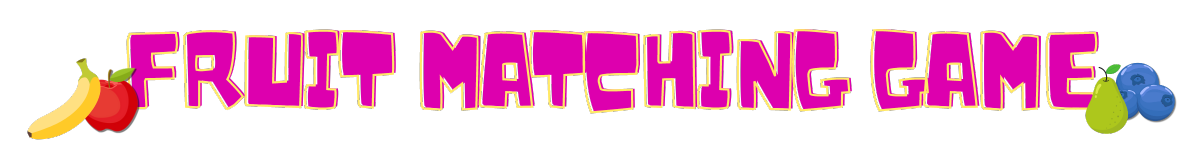
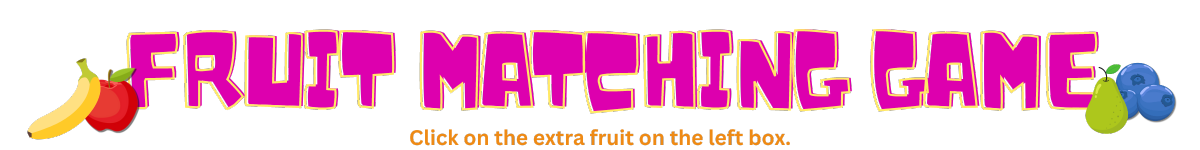
fix small error and change the header

Changed region(s): [[0.3392, 0.8533, 0.6783, 0.9867]]

diff --git a/script.js b/script.js
@@ -1,5 +1,5 @@
 // image array
-fruitImg = [1, 2, 3, 4, 5, 6]
+fruitImg = [1, 2, 3, 4, 5, 6];
 
 // initial value of variables
 let numOfFruits = 0;
@@ -10,22 +10,25 @@ let score = document.querySelector('#score');
 let numOfScore = Number(score.innerText);
 let highScore = document.querySelector('#highScore');
 let numOfHighScore = Number(highScore.innerText);
-//DOM - Box
+//DOM - div
 const theLeftSide = document.querySelector('#leftSide');
 const theRightSide = document.querySelector('#rightSide');
+const notifDiv = document.querySelector('#notifDiv');
+const newNotif = document.createElement('div');
+const catDiv = document.querySelector("#cat")
 
 // addEventListener
 document.querySelector('#startBtn').addEventListener('click', openPopUpLevel);
+document.querySelector('#resetBtn').addEventListener('click', resetGame);
 
 // Open Pop Up Level Function
-const PopUpLevel = document.querySelector('#popUpLevel')
 function openPopUpLevel(event) {
-    PopUpLevel.classList.add('openPopupLevel');
+    document.querySelector('#popUpLevel').classList.add('openPopupLevel');
     event.stopPropagation();
 };
 // close pop up Level Function
 function closePopUpLevel() {
-    PopUpLevel.classList.remove('openPopupLevel');
+    document.querySelector('#popUpLevel').classList.remove('openPopupLevel');
 };
 
 // addEvent Listener - Select Level
@@ -43,7 +46,6 @@ hardLevel.addEventListener('click', closePopUpLevel);
 
 // playGame Function
 function playGame(level) {
-
     console.log(`level: ${level} start: ${numOfFruits}`)
     if (level == 'Easy') {
         numOfFruits = 3;
@@ -54,9 +56,9 @@ function playGame(level) {
     } else {
         numOfFruits = 5;
         generateFruit('Hard')
-    }
+    };
     document.querySelector('#showLevel').innerText = `Level: ${level}`;
-}
+};
 
 // create random fruits on the left side
 function generateFruit(level) {
@@ -80,7 +82,6 @@ function generateFruit(level) {
     theRightSide.appendChild(leftSideImages);
 
     console.log(`level: ${level} status: ${numOfFruits}`);
-    // getFunction(level);
     if (level == 'Easy') {
         theLeftSide.lastChild.addEventListener('click', (event) => nextScore(event, 'Easy'));
         console.log("press easy last child button")
@@ -97,27 +98,6 @@ function generateFruit(level) {
     }
 
 };
-
-// function getFunction(level) {
-//     switch (level) {
-//         case 'Easy':
-//             theLeftSide.lastChild.addEventListener('click', (event) => nextScore(event, 'Easy'));
-//             theLeftSide.addEventListener('click', (event) => gameOver(event, 'Easy'));
-//             console.log("press button")
-//             break;
-//         case 'Medium':
-//             theLeftSide.lastChild.addEventListener('click', (event) => nextScore(event, 'Medium'));
-//             // theLeftSide.addEventListener('click', (event) => gameOver(event, 'Medium'));
-//             break;
-//         case 'Hard':
-//             theLeftSide.lastChild.addEventListener('click', (event) => nextScore(event, 'Hard'));
-//             // theLeftSide.addEventListener('click', (event) => gameOver(event, 'Hard'));
-//             break;
-//         default:
-//             console.log("Invalid function");
-//     }
-// }
-
 
 // adding score if the guess is right
 function nextScore(event, level) {
@@ -140,15 +120,9 @@ function nextScore(event, level) {
         theRightSide.removeChild(theRightSide.firstChild);
     };
     generateFruit(level);
-
 }
 
 // add update HighScore
-const notifDiv = document.querySelector('#notifDiv');
-const newNotif = document.createElement('div');
-const catDiv = document.querySelector("#cat")
-
-
 let currentHighScore = 0;
 function theHighScore() {
     let currentScore = numOfScore;
@@ -166,7 +140,6 @@ function theHighScore() {
 };
 
 //reset Button 
-document.querySelector('#resetBtn').addEventListener('click', resetGame);
 function resetGame(event) {
     event.stopPropagation();
     numOfHighScore = 0;
@@ -201,7 +174,7 @@ function gameOver(event,level) {
         document.querySelector('#playAgain').addEventListener('click', playGame('Medium'));
     } else {
         document.querySelector('#playAgain').addEventListener('click', playGame('Hard'));
-    }
+    };
 }
 
 
@@ -210,7 +183,6 @@ function openPopUpGameOver() {
     document.querySelector('#popUpGameOver').classList.add('open-popup');
     console.log("open works")
 };
-
 function closePopUp() {
     document.querySelector('#popUpGameOver').classList.remove('open-popup');
     while (notifDiv.firstChild) {
@@ -218,6 +190,7 @@ function closePopUp() {
     };
 };
 
+//Quit Game Function
 function quitGame(event) {
     document.querySelector('#popUpGameOver').classList.remove('open-popup');
     while (notifDiv.firstChild) {
@@ -239,13 +212,13 @@ function removeListener() {
     while (theLeftSide.firstChild) {
         theLeftSide.removeChild(theLeftSide.firstChild);
         console.log("remove left works")
-    }
+    };
     while (theRightSide.firstChild) {
         theRightSide.removeChild(theRightSide.firstChild);
         console.log("remove right works")
-    }
+    };
     score.innerText = 0;
     numOfScore = 0;
     numOfFruits = 0;
-    console.log("end of removelistener")
+    console.log("end of removelistener");
 };

diff --git a/styles/style.css b/styles/style.css
@@ -14,6 +14,7 @@ body {
 
 .info {
     text-align: center;
+    margin-top: 5px;
 }
 
 .info img {
@@ -37,16 +38,6 @@ body {
     color: #DD00AE;
 }
 
-/* .btn {
-    background-color: rgb(238, 214, 136);
-    font-weight: 600;
-    border: 3px solid rgb(244, 201, 122);
-    box-shadow: 0px 0px 3px rgb(181, 181, 182);
-    padding: 10px 20px;
-    cursor: pointer;
-    border-radius: 5px;
-
-} */
 
 .leftSide,
 .rightSide {
